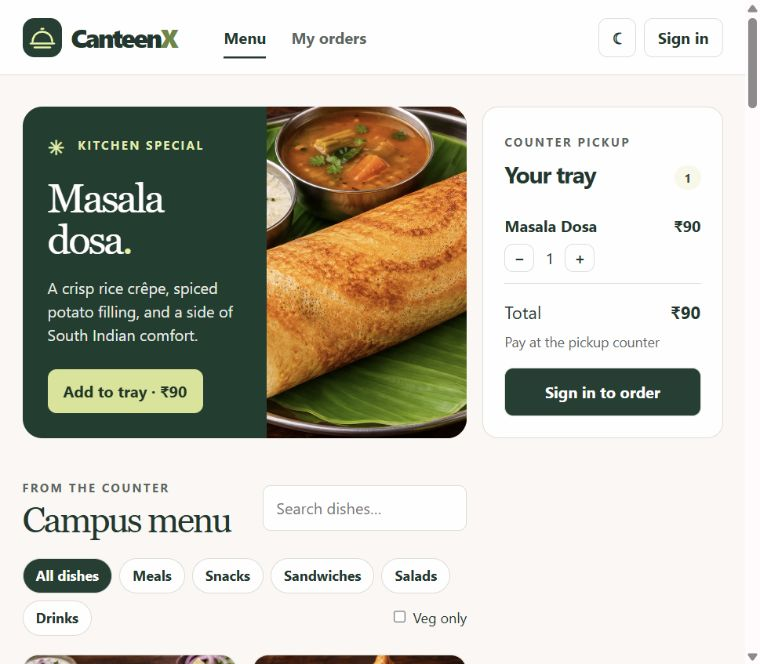
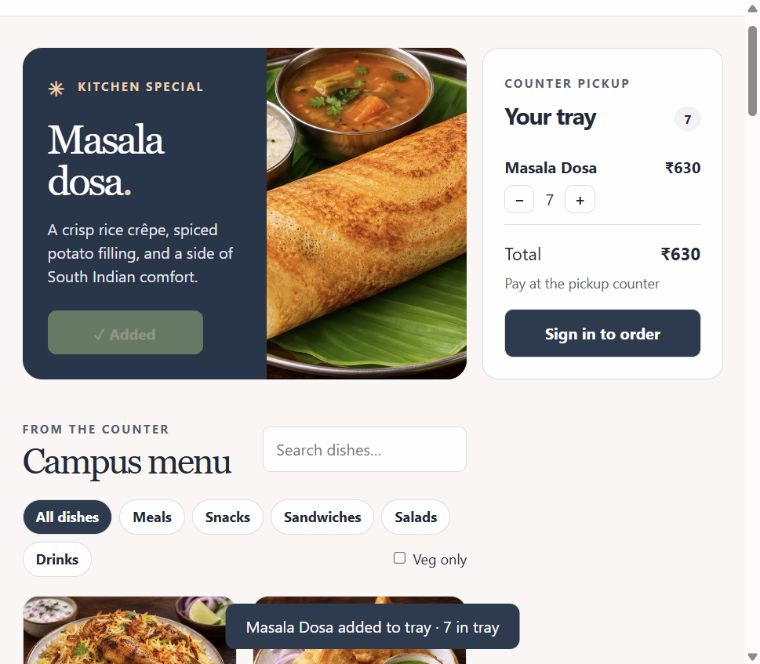
Refine ordering palette and confirm additions inline

diff --git a/client/styles.css b/client/styles.css
@@ -1,21 +1,26 @@
 :root {
-  --paper: #f7f8f4;
+  --paper: #f7f7f6;
   --card: #fff;
-  --ink: #18382e;
-  --muted: #55675d;
-  --edge: #d6dfd6;
-  --soft: #edf2e9;
-  --green: #183f32;
-  --lime: #e1f49b;
+  --ink: #202a37;
+  --muted: #546171;
+  --edge: #d9dfe5;
+  --soft: #eff2f5;
+  --action: #283c51;
+  --sand: #f3cfac;
+  --accent: #914623;
+  --success: #23634b;
+  accent-color: var(--accent);
   color-scheme: light;
 }
 :root[data-theme="dark"] {
-  --paper: #17251f;
-  --card: #20332a;
-  --ink: #eff4e8;
-  --muted: #bdcabc;
-  --edge: #47594c;
-  --soft: #304535;
+  --paper: #151b22;
+  --card: #202933;
+  --ink: #f2f4f7;
+  --muted: #b7c3d0;
+  --edge: #475360;
+  --soft: #303d49;
+  --accent: #efb88f;
+  --action: #394f68;
   color-scheme: dark;
 }
 * {
@@ -93,14 +98,14 @@ footer {
   letter-spacing: -0.075em;
 }
 .brand > span:last-child {
-  color: #63883b;
+  color: var(--accent);
 }
 .mark {
-  background: var(--green);
+  background: var(--action);
   border-radius: 12px;
   display: inline-grid;
   place-items: center;
-  color: var(--lime);
+  color: var(--sand);
   width: 40px;
   height: 40px;
   margin-right: 0.6rem;
@@ -139,7 +144,7 @@ main {
 .hero {
   display: grid;
   grid-template-columns: 1fr 45%;
-  background: #153e30;
+  background: #23364a;
   color: #fff;
   border-radius: 20px;
   overflow: hidden;
@@ -154,7 +159,7 @@ small {
   color: var(--muted);
 }
 .hero small {
-  color: #dceda6;
+  color: var(--sand);
 }
 .sun {
   font-size: 1.25rem;
@@ -171,15 +176,15 @@ small {
   margin: 1rem 0;
 }
 .hero h1 span {
-  color: var(--lime);
+  color: var(--sand);
 }
 .hero p {
   max-width: 30ch;
-  color: #e3ede3;
+  color: #e2e8ef;
 }
 .hero-btn {
-  background: var(--lime);
-  color: #153a29;
+  background: var(--sand);
+  color: #30261f;
   border: 0;
   margin-top: 0.45rem;
   padding: 0.65rem 1rem;
@@ -232,7 +237,7 @@ textarea {
   padding: 0.4rem 0.8rem;
 }
 .filters [aria-pressed="true"] {
-  background: var(--green);
+  background: var(--action);
   color: white;
 }
 .filters label {
@@ -271,8 +276,8 @@ dialog {
 .tag,
 .count {
   border-radius: 99px;
-  background: #f3f8e9;
-  color: #264734;
+  background: var(--soft);
+  color: var(--ink);
   padding: 0.18rem 0.6rem;
   font-size: 0.8rem;
   font-weight: 700;
@@ -342,7 +347,7 @@ dialog h2 {
   max-width: 23ch;
 }
 .primary {
-  background: var(--green);
+  background: var(--action);
   color: white;
   width: 100%;
   padding: 0.75rem;
@@ -413,7 +418,7 @@ dialog {
   color: var(--ink);
 }
 dialog::backdrop {
-  background: #0a201aaa;
+  background: #131e2aaa;
 }
 .link {
   border: 0;
@@ -424,7 +429,7 @@ dialog::backdrop {
   bottom: 1rem;
   left: 50%;
   transform: translateX(-50%);
-  background: var(--green);
+  background: var(--action);
   color: white;
   padding: 0.7rem 1.3rem;
   border-radius: 10px;
@@ -481,7 +486,7 @@ footer {
     position: fixed;
     bottom: 0.7rem;
     right: 3%;
-    background: var(--green);
+    background: var(--action);
     color: white;
     padding: 0.65rem 1rem;
     border-radius: 99px;
@@ -545,4 +550,28 @@ footer {
   .brand {
     font-size: 1.45rem;
   }
+}
+
+.add-button {
+  display: inline-grid;
+  place-items: center;
+  transition: background-color 160ms ease, color 160ms ease;
+}
+.add-button > span { grid-area: 1 / 1; }
+.add-confirmation, .is-added .add-label { visibility: hidden; }
+.add-button.is-added {
+  background: var(--success);
+  color: white;
+  border-color: var(--success);
+}
+.is-added .add-confirmation {
+  visibility: visible;
+  animation: add-confirm 240ms ease-out;
+}
+@keyframes add-confirm {
+  from { opacity: 0; transform: translateY(3px) scale(.9); }
+  to { opacity: 1; transform: translateY(0) scale(1); }
+}
+@media (prefers-reduced-motion: reduce) {
+  .add-button, .is-added .add-confirmation { transition: none; animation: none; }
 }

diff --git a/client/App.tsx b/client/App.tsx
@@ -1,5 +1,6 @@
 import { useCallback, useEffect, useState } from "react";
 import { api, Dish, Line, money, readSaved, User } from "./domain";
+import AddButton from "./components/AddButton";
 import Account from "./components/Account";
 import Storefront from "./components/Storefront";
 import Tickets from "./components/Tickets";
@@ -100,15 +101,16 @@ export default function App() {
     );
   }
   function add(id: number) {
-    if (busy) return;
-    setTray((t) => {
-      const n = t.lines.find((i) => i.id === id)?.quantity || 0;
-      return fresh([
-        ...t.lines.filter((i) => i.id !== id),
-        { id, quantity: Math.min(n + 1, 20) },
-      ]);
-    });
-    setNotice("Tray updated");
+    const dish = menu.find(item => item.id === id);
+    if (busy || !dish?.inStock) return false;
+    const current = tray.lines.find(line => line.id === id)?.quantity ?? 0;
+    if (current >= 20) {
+      setNotice("You can add up to 20 per dish.");
+      return false;
+    }
+    quantity(id, current + 1);
+    setNotice(dish.name + " added to tray · " + (current + 1) + " in tray");
+    return true;
   }
   const lines = tray.lines.flatMap((l) => {
     const item = menu.find((i) => i.id === l.id);
@@ -240,13 +242,13 @@ export default function App() {
                           −
                         </button>
                         {i.quantity}
-                        <button
-                          aria-label={"Add one " + i.name}
-                          disabled={busy || i.quantity >= 20}
-                          onClick={() => quantity(i.id, i.quantity + 1)}
-                        >
-                          +
-                        </button>
+                        <AddButton
+                          variant="compact"
+                          label="+"
+                          name={"Add one " + i.name}
+                          disabled={busy || !i.inStock || i.quantity >= 20}
+                          onAdd={() => add(i.id)}
+                        />
                         {!i.inStock && <strong>Sold out</strong>}
                       </div>
                     </div>

diff --git a/client/components/Storefront.tsx b/client/components/Storefront.tsx
@@ -1,4 +1,5 @@
 import { useState } from "react";
+import AddButton from "./AddButton";
 import { Dish, money } from "../domain";
 const categories = [
   "All dishes",
@@ -16,7 +17,7 @@ export default function Storefront({
   add,
 }: {
   menu: Dish[];
-  add: (id: number) => void;
+  add: (id: number) => boolean;
 }) {
   const [category, filter] = useState(categories[0]),
     [query, search] = useState(""),
@@ -44,13 +45,13 @@ export default function Storefront({
             A crisp rice crêpe, spiced potato filling, and a side of South
             Indian comfort.
           </p>
-          <button
-            className="hero-btn"
+          <AddButton
+            variant="hero-btn"
+            label={hero?.inStock ? "Add to tray · " + money(hero.price) : "Sold out"}
+            name="Add featured Masala Dosa to tray"
             disabled={!hero?.inStock}
-            onClick={() => hero && add(hero.id)}
-          >
-            {hero?.inStock ? "Add to tray · " + money(hero.price) : "Sold out"}
-          </button>
+            onAdd={() => !!hero && add(hero.id)}
+          />
         </div>
         {hero && (
           <img className="hero-photo" src={hero.image} alt="Masala dosa" />
@@ -125,13 +126,12 @@ export default function Storefront({
                 <p>{i.description}</p>
                 <div className="spread">
                   <b>{money(i.price)}</b>
-                  <button
+                  <AddButton
+                    label={i.inStock ? "+ Add" : "Sold out"}
+                    name={"Add " + i.name + " to tray"}
                     disabled={!i.inStock}
-                    aria-label={"Add " + i.name + " to tray"}
-                    onClick={() => add(i.id)}
-                  >
-                    {i.inStock ? "+ Add" : "Sold out"}
-                  </button>
+                    onAdd={() => add(i.id)}
+                  />
                 </div>
               </div>
             </article>

diff --git a/client/components/AddButton.tsx b/client/components/AddButton.tsx
@@ -1,0 +1,35 @@
+import { useEffect, useRef, useState } from "react";
+
+interface Props {
+  label: string;
+  name: string;
+  disabled?: boolean;
+  variant?: "hero-btn" | "compact";
+  onAdd: () => boolean;
+}
+
+export default function AddButton({ label, name, disabled, variant, onAdd }: Props) {
+  const [confirmation, setConfirmation] = useState(0);
+  const timer = useRef<number | undefined>(undefined);
+  useEffect(() => () => window.clearTimeout(timer.current), []);
+
+  return (
+    <button
+      type="button"
+      aria-label={name}
+      disabled={disabled}
+      className={["add-button", variant, confirmation && "is-added"].filter(Boolean).join(" ")}
+      onClick={() => {
+        if (!onAdd()) return;
+        window.clearTimeout(timer.current);
+        setConfirmation(n => n + 1);
+        timer.current = window.setTimeout(() => setConfirmation(0), 1100);
+      }}
+    >
+      <span className="add-label">{label}</span>
+      <span key={confirmation} className="add-confirmation" aria-hidden="true">
+        {variant === "compact" ? "✓" : "✓ Added"}
+      </span>
+    </button>
+  );
+}

diff --git a/client/index.html b/client/index.html
@@ -3,12 +3,12 @@
   <head>
     <meta charset="utf-8" />
     <meta name="viewport" content="width=device-width, initial-scale=1" />
-    <meta name="theme-color" content="#173e31" />
+    <meta name="theme-color" content="#23364a" />
     <meta
       name="description"
       content="Browse the campus canteen menu, order ahead and follow your pickup ticket."
     />
-    <title>CanteenX · Campus kitchen</title>
+    <title>CanteenX Â· Campus kitchen</title>
   </head>
   <body>
     <div id="root"></div>
